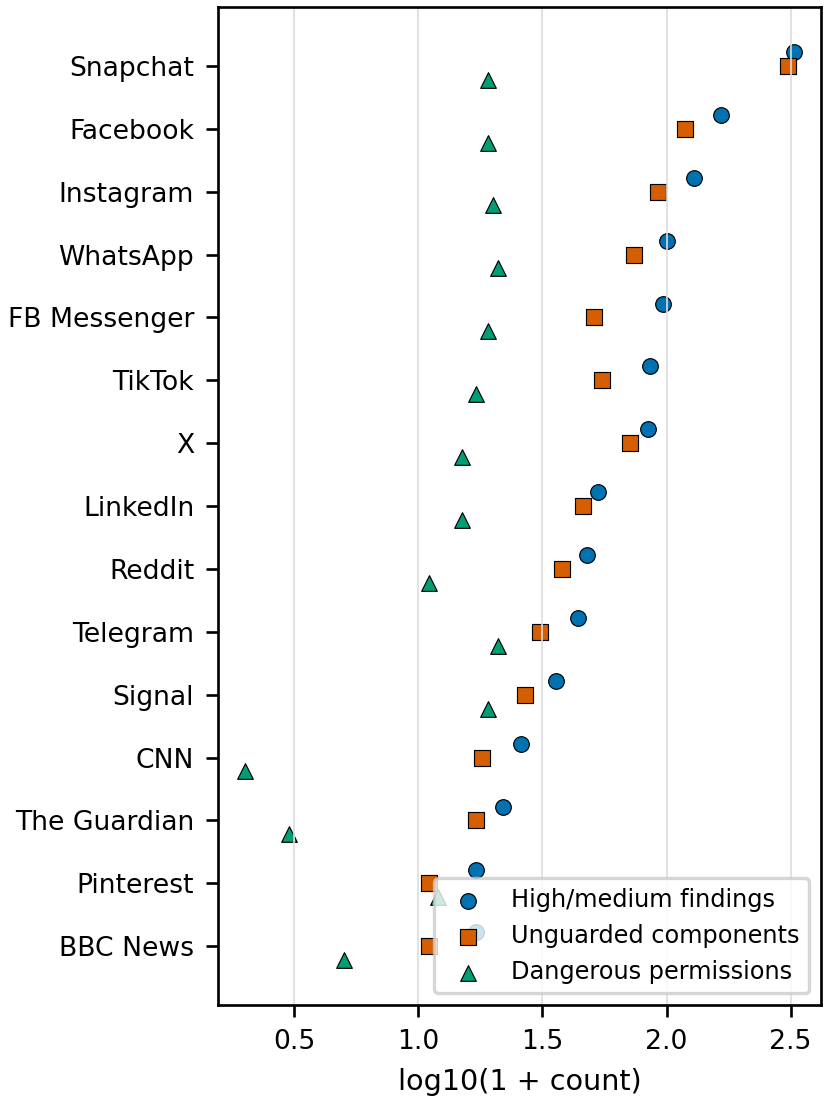
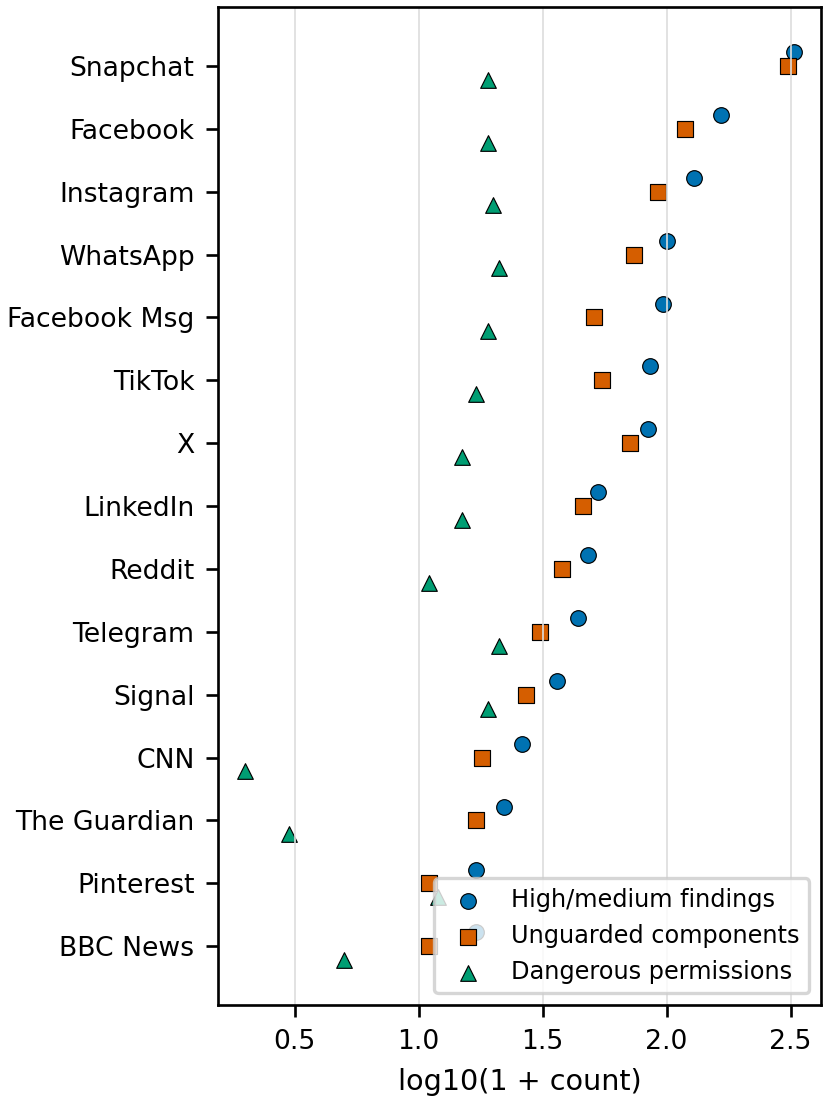
Reduce integrated manuscript redundancy

diff --git a/scripts/generate_publication_assets.py b/scripts/generate_publication_assets.py
@@ -46,7 +46,7 @@ APP_ORDER = [
     "LinkedIn",
 ]
 
-CATEGORY_POLICY_VERSION = "paper3-primary-function-v1"
+CATEGORY_POLICY_VERSION = "integrated-primary-function-v1"
 CATEGORY_POLICY = {
     "bbc.mobile.news.ww": ("News", "News publication and consumption", "Primary purpose is news publication and consumption."),
     "com.cnn.mobile.android.phone": ("News", "News publication and consumption", "Primary purpose is news publication and consumption."),
@@ -177,12 +177,17 @@ def count_ids(value: object) -> int:
 
 def display_label(value: object) -> str:
     text = "" if pd.isna(value) else str(value)
-    return "FB Messenger" if text == "Facebook Messenger" else text
+    return "Facebook Msg" if text == "Facebook Messenger" else text
 
 
 def publication_category(package: object) -> str:
     pkg = "" if pd.isna(package) else str(package)
     return CATEGORY_POLICY.get(pkg, ("Other", ""))[0]
+
+
+def manuscript_category_label(category: object) -> str:
+    text = "" if pd.isna(category) else str(category)
+    return "Prof. Networking" if text == "Professional Networking" else text
 
 
 def write_category_policy() -> None:
@@ -198,7 +203,7 @@ def write_category_policy() -> None:
         "com.snapchat.android": "Snapchat",
         "com.zhiliaoapp.musically": "TikTok",
         "com.twitter.android": "X",
-        "com.facebook.orca": "Facebook Messenger",
+        "com.facebook.orca": "Facebook Msg",
         "org.thoughtcrime.securesms": "Signal",
         "org.telegram.messenger": "Telegram",
         "com.whatsapp": "WhatsApp",
@@ -345,13 +350,12 @@ def build_tables(manifest: pd.DataFrame, app: pd.DataFrame, static: pd.DataFrame
         table2.append(
             {
                 "App": display_label(row["App"]),
-                "Category": row["app_category"],
+                "Category": manuscript_category_label(row["app_category"]),
                 "Version": row["selected_version_name"],
-                "Runs": int(row["selected_run_count"]),
                 "I/Q/Int": f"{count_ids(row['strict_idle_run_ids'])}/{count_ids(row['qfg_run_ids'])}/{count_ids(row['interactive_run_ids'])}",
             }
         )
-    cols2 = ["App", "Category", "Version", "Runs", "I/Q/Int"]
+    cols2 = ["App", "Category", "Version", "I/Q/Int"]
     write_csv(TABLE_DIR / "table2_cutoff_evidence_summary.csv", table2, cols2)
     write_tex_table(
         TABLE_DIR / "table2_cutoff_evidence_summary.tex",
@@ -359,7 +363,7 @@ def build_tables(manifest: pd.DataFrame, app: pd.DataFrame, static: pd.DataFrame
         "tab:cutoff-evidence-summary",
         cols2,
         table2,
-        r"lllrc",
+        r"lllc",
         note="Categories reflect primary application function rather than corporate ownership or every supported feature.",
     )
 
@@ -554,14 +558,14 @@ def build_tables(manifest: pd.DataFrame, app: pd.DataFrame, static: pd.DataFrame
         if not pd.isna(b) and not pd.isna(i) and b > 0:
             shift.append(math.log2((i + 1) / (b + 1)))
     table6 = [
-        {"Measure": "Selected apps", "Value": str(len(manifest))},
-        {"Measure": "Selected dynamic runs", "Value": str(int(dynamic["selected_run_count"].sum()))},
-        {"Measure": "Strict idle/QFG/interactive", "Value": f"{int(dynamic['strict_idle_run_count'].sum())}/{int(dynamic['qfg_run_count'].sum())}/{int(dynamic['interactive_run_count'].sum())}"},
-        {"Measure": "Runtime-shift eligible apps", "Value": str(len(compared))},
-        {"Measure": "Median log2 PPS shift", "Value": f"{np.median(shift):.2f}"},
-        {"Measure": "Spearman rho, findings vs. domains", "Value": f"{rho:.2f}"},
+        {"Measure": "Selected apps", "Basis": "Build-aligned set", "Value": str(len(manifest))},
+        {"Measure": "Selected dynamic runs", "Basis": "QA-valid runs", "Value": str(int(dynamic["selected_run_count"].sum()))},
+        {"Measure": "Strict idle/QFG/interactive", "Basis": "Evidence classes", "Value": f"{int(dynamic['strict_idle_run_count'].sum())}/{int(dynamic['qfg_run_count'].sum())}/{int(dynamic['interactive_run_count'].sum())}"},
+        {"Measure": "Runtime-shift eligible apps", "Basis": "Baseline+interactive", "Value": str(len(compared))},
+        {"Measure": "Median log2 PPS shift", "Basis": "App medians", "Value": f"{np.median(shift):.2f}"},
+        {"Measure": "Spearman rho, findings vs. domains", "Basis": "Descriptive", "Value": f"{rho:.2f}"},
     ]
-    cols6 = ["Measure", "Value"]
+    cols6 = ["Measure", "Basis", "Value"]
     write_csv(TABLE_DIR / "table6_statistical_summary.csv", table6, cols6)
     write_tex_table(
         TABLE_DIR / "table6_statistical_summary.tex",
@@ -569,7 +573,7 @@ def build_tables(manifest: pd.DataFrame, app: pd.DataFrame, static: pd.DataFrame
         "tab:statistical-summary",
         cols6,
         table6,
-        r"@{}p{0.68\columnwidth}r@{}",
+        r"@{}p{0.42\columnwidth}p{0.34\columnwidth}r@{}",
         table_env="table",
         size=r"\scriptsize",
         note="Runtime shift uses strict-idle when available, otherwise QFG. Associations are descriptive.",
@@ -728,7 +732,7 @@ def build_figures(static: pd.DataFrame, dynamic: pd.DataFrame) -> None:
     ].to_csv(
         SOURCE_DIR / "fig4_static_runtime_scatter_source.csv", index=False
     )
-    fig, ax = plt.subplots(figsize=(7.15, 4.15))
+    fig, ax = plt.subplots(figsize=(6.5, 3.85))
     plot = merged.copy()
     for cat in CATEGORY_ORDER:
         group = plot[plot["app_category"].eq(cat)]
@@ -738,7 +742,7 @@ def build_figures(static: pd.DataFrame, dynamic: pd.DataFrame) -> None:
         ax.scatter(
             group["x_log_high_med"],
             group["runtime_shift_log2_pps"],
-            s=35 + group["interactive_run_count"].fillna(0) * 14,
+            s=58,
             label=cat,
             alpha=0.82,
             color=style["color"],
@@ -775,7 +779,7 @@ def build_figures(static: pd.DataFrame, dynamic: pd.DataFrame) -> None:
         )
     ax.axhline(0, color="#777777", lw=0.8, linestyle="--")
     ax.set_xlabel("log10(1 + high/medium findings)", fontsize=8.6)
-    ax.set_ylabel("log2 interactive/base PPS", fontsize=8.6)
+    ax.set_ylabel("log2(interactive/base PPS)", fontsize=8.6)
     ax.tick_params(labelsize=8.0)
     ax.margins(x=0.18, y=0.14)
     ax.legend(fontsize=7.2, loc="upper center", bbox_to_anchor=(0.5, 1.17), ncols=4, frameon=False)

diff --git a/tables/table2_cutoff_evidence_summary.tex b/tables/table2_cutoff_evidence_summary.tex
@@ -3,25 +3,25 @@
 \caption{Selected 14-day evidence bundles and provenance.}
 \label{tab:cutoff-evidence-summary}
 \scriptsize
-\begin{tabular}{lllrc}
+\begin{tabular}{lllc}
 \toprule
-App & Category & Version & Runs & I/Q/Int \\
+App & Category & Version & I/Q/Int \\
 \midrule
-BBC News & News & 2026.5.0 & 10 & 4/0/6 \\
-CNN & News & 26.13.0 & 12 & 4/1/7 \\
-The Guardian & News & 6.226.23011 & 9 & 3/2/4 \\
-Facebook & Social Media & 567.1.0.52.74 & 8 & 3/1/4 \\
-Instagram & Social Media & 436.0.0.41.73 & 7 & 2/4/1 \\
-Pinterest & Social Media & 14.26.0 & 7 & 5/0/2 \\
-Reddit & Social Media & 2026.26.0 & 6 & 2/3/1 \\
-Snapchat & Social Media & 14.14.0.43 & 5 & 1/2/2 \\
-TikTok & Social Media & 45.7.3 & 11 & 0/8/3 \\
-X & Social Media & 12.5.0-release.0 & 8 & 3/1/4 \\
-FB Messenger & Messaging & 567.1.0.53.87 & 9 & 4/0/5 \\
-Signal & Messaging & 8.18.2 & 7 & 3/0/4 \\
-Telegram & Messaging & 12.8.3 & 7 & 3/0/4 \\
-WhatsApp & Messaging & [phone redacted] & 9 & 4/0/5 \\
-LinkedIn & Professional Networking & 4.1.1218 & 8 & 3/1/4 \\
+BBC News & News & 2026.5.0 & 4/0/6 \\
+CNN & News & 26.13.0 & 4/1/7 \\
+The Guardian & News & 6.226.23011 & 3/2/4 \\
+Facebook & Social Media & 567.1.0.52.74 & 3/1/4 \\
+Instagram & Social Media & 436.0.0.41.73 & 2/4/1 \\
+Pinterest & Social Media & 14.26.0 & 5/0/2 \\
+Reddit & Social Media & 2026.26.0 & 2/3/1 \\
+Snapchat & Social Media & 14.14.0.43 & 1/2/2 \\
+TikTok & Social Media & 45.7.3 & 0/8/3 \\
+X & Social Media & 12.5.0-release.0 & 3/1/4 \\
+Facebook Msg & Messaging & 567.1.0.53.87 & 4/0/5 \\
+Signal & Messaging & 8.18.2 & 3/0/4 \\
+Telegram & Messaging & 12.8.3 & 3/0/4 \\
+WhatsApp & Messaging & [phone redacted] & 4/0/5 \\
+LinkedIn & Prof. Networking & 4.1.1218 & 3/1/4 \\
 \bottomrule
 \end{tabular}
 \vspace{1pt}

diff --git a/content/06_discussion.tex b/content/06_discussion.tex
@@ -2,24 +2,16 @@
 
 \subsection{Evidence Stability Under App-Update Churn}
 
-The 14-day evidence window separates research readiness from the continuously changing operational queue. When a selected app build is captured within the window and linked to valid static and runtime evidence, a later app-store update does not invalidate those observations. The newer build instead becomes a candidate for a future comparison wave. This prevents recent, version-backed measurements from being discarded solely because the installed application changed after collection, while preserving the package, version, APK, static-run, dynamic-run, and QA provenance needed to interpret each result.
-
-This decision matters because popular app update cadence can be faster than a complete static-runtime measurement cycle. Without a bounded recent-evidence rule, the study would either chase moving targets indefinitely or discard valid runs after ordinary app updates. The window functions as an audit boundary: it preserves recency while keeping each claim tied to a concrete package version, APK hash, static run, dynamic run, and PCAP-derived feature set.
+The 14-day evidence window separates research readiness from the continuously changing operational queue. When a selected app build is captured within the window and linked to valid static and runtime evidence, a later app-store update does not invalidate those observations; the newer build instead becomes a candidate for future longitudinal comparison. The window preserves recency while keeping each claim tied to concrete package version, APK hash, static run, dynamic run, PCAP-derived features, and QA provenance.
 
 \subsection{Interpreting Static and Runtime Evidence}
 
-Static and runtime evidence describe related but different aspects of Android app posture. Static analysis characterizes declared capabilities, packaged attack surface, exported components, permissions, configuration choices, and detector findings. Runtime analysis characterizes the network activity observed during selected strict-idle, quiescent foreground, and interactive execution scenarios. A high static finding count does not necessarily imply broad runtime activity, while limited observed runtime activity does not demonstrate low privacy or security exposure. The integrated results should therefore be interpreted as cross-layer characterization rather than evidence of causation, prediction, exploitability, or malicious behavior.
-
-This distinction is central to the results because the integrated matrix contains examples in every quadrant. Static-heavy apps warrant review of exported components, permission guards, SDKs, and packaged configuration even if the observed scenario is quiet. Runtime-heavy apps warrant scenario and service-family review even when static finding volume is lower. Concordant higher apps are the strongest candidates for deeper manual analysis because both layers point to elevated exposure.
+Static and runtime evidence describe related but different dimensions of Android app posture. Static analysis characterizes declared capabilities, packaged attack surface, exported components, permissions, configuration choices, and detector findings. Runtime analysis characterizes network activity observed during selected strict-idle, QFG, and interactive scenarios. A high static finding count does not necessarily imply broad runtime activity, while limited observed runtime activity does not demonstrate low privacy or security exposure. The integrated results should therefore be interpreted as cross-layer characterization rather than evidence of causation, prediction, exploitability, or malicious behavior.
 
 \subsection{App-Level Profiles and Review Prioritization}
 
-The app-level profiles illustrate why both evidence layers are needed. Static-heavy apps such as Snapchat and WhatsApp expose substantial packaged surfaces even when the selected runtime scenarios do not produce the broadest domain diversity. Lower-static but higher-runtime cases such as CNN and BBC News demonstrate that interactive network activity can broaden even when static finding volume is lower than that of large social platforms. Apps such as Facebook, Instagram, TikTok, and X exhibit higher values across both layers and may therefore warrant deeper manual examination. These profiles are intended to support review prioritization, not to function as composite risk scores or formal security rankings.
-
-This framing is useful for security teams because it turns disagreement between static and runtime evidence into a triage signal rather than a reporting problem. A mismatch can suggest where the next review should go: static-heavy cases toward manifest and component review, runtime-heavy cases toward scenario design and network/service labeling, and concordant higher cases toward deeper manual assessment. The goal is not to collapse the layers into one score, but to preserve enough structure for defensible follow-up.
+The app-level profiles illustrate concrete triage implications. Static-heavy apps such as Snapchat and WhatsApp expose substantial packaged surfaces even when selected runtime scenarios do not produce the broadest domain diversity. Lower-static but higher-runtime cases such as CNN and BBC News suggest follow-up scenario and service-family review, while Facebook, Instagram, TikTok, and X exhibit higher values across both layers and may warrant deeper manual examination. These profiles are not composite scores or formal security rankings; they preserve disagreement between layers as a signal for defensible follow-up.
 
 \subsection{QFG Separation and Practical Implications}
 
-Separating quiescent foreground (QFG) captures from strict-idle captures is an important methodological distinction. Social, news, and messaging apps may continue loading content, synchronizing services, or maintaining communication state while foregrounded but untouched. Counting this activity as strict-idle would overstate baseline quietness, whereas discarding it would remove meaningful app-driven behavior. Reporting QFG as a separate evidence class preserves both interpretations. More broadly, the findings indicate that Android app assessment should not be reduced to either static inspection or runtime traffic observation alone. Build-aligned static and runtime evidence allows practitioners to compare declared exposure with observed behavior without combining measurements from different application versions.
-
-The QFG class also improves comparability across app types. A content-feed app may refresh recommendations or media while untouched, whereas an encrypted messaging app may remain relatively quiet until a message, call, or synchronization event occurs. Treating both as ordinary idle would collapse different behaviors into one baseline. Keeping QFG separate allows the paper to describe app-driven foreground behavior without claiming that it represents user inactivity in the strictest sense.
+Separating QFG captures from strict-idle captures is an important methodological distinction. Social, news, and messaging apps may continue loading content, synchronizing services, or maintaining communication state while foregrounded but untouched. Counting this activity as strict-idle would overstate baseline quietness, whereas discarding it would remove meaningful app-driven behavior. Keeping QFG separate allows the paper to describe app-driven foreground behavior without claiming that it represents user inactivity in the strictest sense.

diff --git a/tables/table6_statistical_summary.tex b/tables/table6_statistical_summary.tex
@@ -3,16 +3,16 @@
 \caption{Compact descriptive statistical summary.}
 \label{tab:statistical-summary}
 \scriptsize
-\begin{tabular}{@{}p{0.68\columnwidth}r@{}}
+\begin{tabular}{@{}p{0.42\columnwidth}p{0.34\columnwidth}r@{}}
 \toprule
-Measure & Value \\
+Measure & Basis & Value \\
 \midrule
-Selected apps & 15 \\
-Selected dynamic runs & 123 \\
-Strict idle/QFG/interactive & 44/23/56 \\
-Runtime-shift eligible apps & 15 \\
-Median log2 PPS shift & 3.39 \\
-Spearman rho, findings vs. domains & 0.01 \\
+Selected apps & Build-aligned set & 15 \\
+Selected dynamic runs & QA-valid runs & 123 \\
+Strict idle/QFG/interactive & Evidence classes & 44/23/56 \\
+Runtime-shift eligible apps & Baseline+interactive & 15 \\
+Median log2 PPS shift & App medians & 3.39 \\
+Spearman rho, findings vs. domains & Descriptive & 0.01 \\
 \bottomrule
 \end{tabular}
 \vspace{1pt}

diff --git a/content/05_results.tex b/content/05_results.tex
@@ -2,9 +2,7 @@
 
 \subsection{Dataset and Evidence Provenance}
 
-The final evidence bundle included all 15 applications with build-aligned static and runtime evidence; no application was classified as a true evidence hole. Table~\ref{tab:cutoff-evidence-summary} summarizes the selected app versions and the associated strict-idle, quiescent foreground (QFG), and interactive runtime evidence. Full provenance---including static-run identifiers, dynamic-run identifiers, APK hashes, alignment status, and source-file checksums---is retained in the generated report bundle. The cutoff-window result therefore functions as a provenance control: every app-level observation reported below refers to a selected package and version group rather than to mutable live-installed state.
-
-The selected bundle is intentionally not a same-day installed-state snapshot. It is a recent, build-backed analysis set: each row identifies a selected app version, the selected runtime evidence classes, and the provenance needed to connect static and dynamic observations. This matters because consumer apps updated during collection; the analysis therefore treats app-store churn as a provenance problem rather than as automatic evidence loss.
+The final evidence bundle included all 15 applications with build-aligned static and runtime evidence, and no application was classified as a true evidence hole. Table~\ref{tab:cutoff-evidence-summary} reports the selected versions and strict-idle/QFG/interactive evidence classes. Detailed hashes, static-run identifiers, dynamic-run identifiers, alignment status, and source-file checksums remain in the generated source bundle. Results therefore refer to selected package/version groups rather than mutable installed-app state.
 
 \input{tables/table2_cutoff_evidence_summary}
 
@@ -27,7 +25,7 @@ The selected runtime evidence includes strict-idle, QFG, and interactive capture
 
 The selected runtime bundle contains 123 dynamic runs: 44 strict-idle, 23 QFG, and 56 interactive captures. CNN and BBC News provide the deepest selected coverage, with 12 and 10 runs, respectively, and every application contributes at least five selected runs. Interaction produced clearer changes in packet rate and traffic volume than in domain count. TikTok, Instagram, WhatsApp, and Facebook exhibited some of the largest interactive packet-rate or traffic-volume measurements. Signal and Telegram showed substantial packet-rate increases from comparatively quiet baselines, while retaining narrower observed domain diversity under the exercised messaging scenarios.
 
-The runtime results separate activity volume from service breadth. Interactive packet rates ranged from 14.0 packets/s for The Guardian to 285.7 packets/s for TikTok, with a median of 41.6 packets/s. Interactive median transfer volume ranged from about 10.1 MB for Facebook Messenger to 211.3 MB for Instagram. Domain breadth was less dispersed: the median interactive domain count was 12, and most content apps clustered between 10 and 16 domains. Messaging apps therefore require a different interpretation: WhatsApp, Signal, and Telegram show large baseline-relative packet-rate shifts, but only three or fewer interactive domains in the selected captures.
+The runtime results separate activity volume from service breadth. Interactive packet rates ranged from 14.0 packets/s for The Guardian to 285.7 packets/s for TikTok, with a median of 41.6 packets/s. Interactive median transfer volume ranged from about 10.1 MB for Facebook Msg to 211.3 MB for Instagram. Domain breadth was less dispersed: the median interactive domain count was 12, and most content apps clustered between 10 and 16 domains. Messaging apps therefore require a different interpretation: WhatsApp, Signal, and Telegram show large baseline-relative packet-rate shifts, but only three or fewer interactive domains in the selected captures.
 
 \input{tables/table4_runtime_behavior_summary}
 
@@ -48,8 +46,8 @@ These groupings are descriptive and should not be interpreted as formal risk ran
 
 \begin{figure*}[!t]
 \centering
-\includegraphics[width=0.82\textwidth]{figures/fig4_static_runtime_scatter.pdf}
-\caption{Descriptive static-runtime relationship for selected app builds. The x-axis is $\log_{10}(1+x)$ high/medium static finding volume; the y-axis is $\log_2$ baseline-relative interactive packet-rate shift. Marker size reflects interactive run count; representative apps are labeled, with complete app identities retained in Table~\ref{tab:cutoff-evidence-summary} and the source CSV.}
+\includegraphics[width=0.76\textwidth]{figures/fig4_static_runtime_scatter.pdf}
+\caption{Static exposure and baseline-relative runtime change for selected app builds. Static exposure is the $\log_{10}(1+x)$ transformation of high/medium finding count, and runtime change is the $\log_2$ ratio of interactive to baseline packet rate. Categories reflect primary app function; labeled points identify representative cases discussed in the text.}
 \label{fig:static-runtime-scatter}
 \end{figure*}
 

diff --git a/content/04_methodology.tex b/content/04_methodology.tex
@@ -43,13 +43,6 @@ The 14-day window serves as a provenance control rather than a claim that every 
 \end{algorithmic}
 \end{algorithm}
 
-\begin{figure}[!t]
-\centering
-\includegraphics[width=\columnwidth]{figures/fig1_study_pipeline.pdf}
-\caption{Study pipeline for build-aligned static and runtime evidence. The qualification gate excludes mismatched builds, missing evidence, and invalid or insufficient runs before integrated analysis.}
-\label{fig:study-pipeline}
-\end{figure}
-
 \subsection{Integrated Analysis and Reproducibility}
 
 Integrated analysis compares app-level static exposure indicators with app-level runtime observations. The study reports descriptive counts, evidence-class medians, baseline-relative packet-rate changes, and exploratory Spearman associations. Cross-layer profiles are constructed using a transparent median split: higher static exposure is determined from high- and medium-severity finding volume greater than or equal to the cohort median, while higher runtime activity is determined from interactive domain count greater than or equal to the cohort median. Equality is assigned to the higher group. These profiles support comparative interpretation but do not constitute a composite risk score or predictive model.

diff --git a/content/01_introduction.tex b/content/01_introduction.tex
@@ -6,9 +6,9 @@ This paper asks: \emph{How do exact-build-aligned static exposure indicators and
 
 Previous Android studies show why a single evidence stream is insufficient. Static analysis can identify manifest exposure, permission posture, exported components, packaged resources, SDK indicators, and network-security settings, but it cannot establish how an app behaves when executed. Dynamic analysis can observe packet timing, traffic volume, endpoint families, and interaction-driven changes, but runtime observations are scenario-bounded and depend on app version, device state, network conditions, and user stimulation \cite{sutter2024dynamic}. Recent privacy-disclosure work further shows that developer labels, SDK configurations, and observed behavior can diverge \cite{arkalakis2024datasafety,khandelwal2024privacylabels,zhang2024privacysdks}.
 
-We present a 15-app empirical study of mainstream Android consumer apps using ScytaleDroid, a database-backed analysis platform that links APK harvests, base and split APK identity, APK hashes, static findings, runtime evidence packs, PCAP availability, and quality-assurance state. The study includes social/content, messaging, news, and professional networking apps. The empirical unit is an app-level, selected-build evidence bundle rather than a mutable installed-app label.
+We present a 15-app empirical study of mainstream Android consumer apps using ScytaleDroid, a database-backed analysis platform that links APK harvests, base and split APK identity, APK hashes, static findings, runtime evidence packs, PCAP availability, and quality-assurance state. The study includes social media, messaging, news, and professional networking apps. The empirical unit is an app-level, selected-build evidence bundle rather than a mutable installed-app label.
 
-The main methodological challenge is app-update churn. Popular consumer apps can update faster than a full same-day measurement wave can finish. This study therefore uses a fixed 14-day recent-evidence window as a provenance control. The window does not replace the research question; it defines which version-backed observations are eligible for analysis. At cutoff, all 15 apps had build-backed static and runtime evidence, with no true evidence holes. The contributions of this paper are:
+Popular consumer apps may update before a full measurement wave is completed. We therefore use a fixed 14-day evidence window that preserves recent, version-backed measurements while preventing static and runtime evidence from different builds from being combined. At cutoff, all 15 apps had build-backed static and runtime evidence, with no true evidence holes. The contributions of this paper are:
 \begin{itemize}
     \item a 15-app static-runtime Android consumer-app analysis with exact selected-build provenance;
     \item a recent-evidence cutoff model that prevents routine app-store updates from invalidating versioned measurements;
@@ -16,4 +16,4 @@ The main methodological challenge is app-update churn. Popular consumer apps can
     \item integrated descriptive profiles that compare static exposure volume with runtime behavior without creating an opaque composite risk score.
 \end{itemize}
 
-The remainder of this paper is organized as follows. Section~II provides background. Section~III reviews related work and defines the research gap. Section~IV describes the methodology and its limitations. Section~V presents the results. Section~VI discusses the findings and practical implications. Section~VII concludes.
+The remainder of this paper is organized as follows. Section~II provides background on Android evidence surfaces. Section~III reviews related work and the research gap. Section~IV describes the methodology, evidence-window policy, and study limitations. Section~V presents the results, Section~VI discusses practical implications, and Section~VII concludes.

diff --git a/content/07_conclusion.tex b/content/07_conclusion.tex
@@ -1,7 +1,5 @@
-\section{Conclusion and Future Work}
+\section{Conclusion}
 
-This paper presented a cutoff-window evidence model for assessing privacy and security risk in Android consumer applications using static and runtime evidence. At cutoff, all 15 apps had recent, build-backed evidence bundles, and the cutoff contained zero true evidence holes. The key result is that every app had auditable evidence with preserved build, static, dynamic, APK, PCAP, collection-window, and QA provenance.
-
-The study integrates static and dynamic evidence across a 15-app dataset. Static analysis supplies declared and embedded risk context, while runtime analysis supplies observed baseline, QFG, and interactive behavior. The cutoff-window model connects these surfaces through selected build-backed evidence bundles so the paper can report recent app evidence without treating normal app-store churn as evidence loss.
+This paper presented a cutoff-window evidence model for assessing privacy and security risk in Android consumer applications using static and runtime evidence. At cutoff, all 15 apps had recent, build-backed evidence bundles with zero true evidence holes, preserving build, static, dynamic, APK, PCAP, collection-window, and QA provenance. Static analysis supplies declared and embedded risk context, while runtime analysis supplies observed baseline, QFG, and interactive behavior; the cutoff-window model connects these surfaces without treating normal app-store churn as evidence loss.
 
 Future work will extend the frozen cutoff through longitudinal build-to-build comparisons, additional devices and Android versions, improved service-family labeling, and controlled held-out runtime scenarios. The present study establishes a reproducible, build-backed static-runtime evidence model for recent Android consumer-app measurements while preserving the provenance and limitations needed for reliable interpretation.

diff --git a/tables/table3_static_exposure_summary.tex b/tables/table3_static_exposure_summary.tex
@@ -17,7 +17,7 @@ Reddit & 10 & 47 & 37 & 1 & 47 & 0 & 4 \\
 Snapchat & 18 & 325 & 308 & 2 & 323 & 3 & 6 \\
 TikTok & 16 & 85 & 54 & 3 & 84 & 6 & 6 \\
 X & 14 & 83 & 70 & 1 & 84 & 2 & 5 \\
-FB Messenger & 18 & 96 & 50 & 1 & 95 & 5 & 6 \\
+Facebook Msg & 18 & 96 & 50 & 1 & 95 & 5 & 6 \\
 Signal & 18 & 35 & 26 & 1 & 34 & 0 & 3 \\
 Telegram & 20 & 43 & 30 & 1 & 41 & 2 & 6 \\
 WhatsApp & 20 & 99 & 73 & 1 & 99 & 0 & 5 \\

diff --git a/tables/table4_runtime_behavior_summary.tex b/tables/table4_runtime_behavior_summary.tex
@@ -17,7 +17,7 @@ Reddit & I & 11/12 & 6.9/41.6 & 10.6 \\
 Snapchat & I & 11/11 & 4.0/30.2 & 50.9 \\
 TikTok & Q & 14/14 & 26.4/285.7 & 203.8 \\
 X & I & 11/12 & 2.1/18.1 & 20.5 \\
-FB Messenger & I & 4/9 & 1.5/30.1 & 10.1 \\
+Facebook Msg & I & 4/9 & 1.5/30.1 & 10.1 \\
 Signal & I & 1/3 & 0.4/95.8 & 33.0 \\
 Telegram & I & 1/0 & 0.7/61.5 & 15.2 \\
 WhatsApp & I & 2/3 & 0.6/207.0 & 153.5 \\

diff --git a/tables/table5_integrated_profile_matrix.tex b/tables/table5_integrated_profile_matrix.tex
@@ -8,7 +8,7 @@
 Static & Lower runtime & Higher runtime \\
 \midrule
 Lower static & 3: Pinterest, Signal, Telegram & 4: BBC News, CNN, The Guardian, Reddit \\
-Higher static & 4: Snapchat, FB Messenger, WhatsApp, LinkedIn & 4: Facebook, Instagram, TikTok, X \\
+Higher static & 4: Snapchat, Facebook Msg, WhatsApp, LinkedIn & 4: Facebook, Instagram, TikTok, X \\
 \bottomrule
 \end{tabular}
 \vspace{1pt}

diff --git a/tables/table5_integrated_static_runtime_profiles.tex b/tables/table5_integrated_static_runtime_profiles.tex
@@ -17,7 +17,7 @@ Reddit & Lower static/high runtime & 47 & 12 & 1 & runtime-heavy \\
 Snapchat & High static/lower runtime & 325 & 11 & 2 & static-heavy \\
 TikTok & High static/high runtime & 85 & 14 & 3 & concordant higher \\
 X & High static/high runtime & 83 & 12 & 4 & concordant higher \\
-FB Messenger & High static/lower runtime & 96 & 9 & 5 & static-heavy \\
+Facebook Msg & High static/lower runtime & 96 & 9 & 5 & static-heavy \\
 Signal & Lower static/lower runtime & 35 & 3 & 4 & concordant lower \\
 Telegram & Lower static/lower runtime & 43 & 0 & 4 & concordant lower \\
 WhatsApp & High static/lower runtime & 99 & 3 & 5 & static-heavy \\